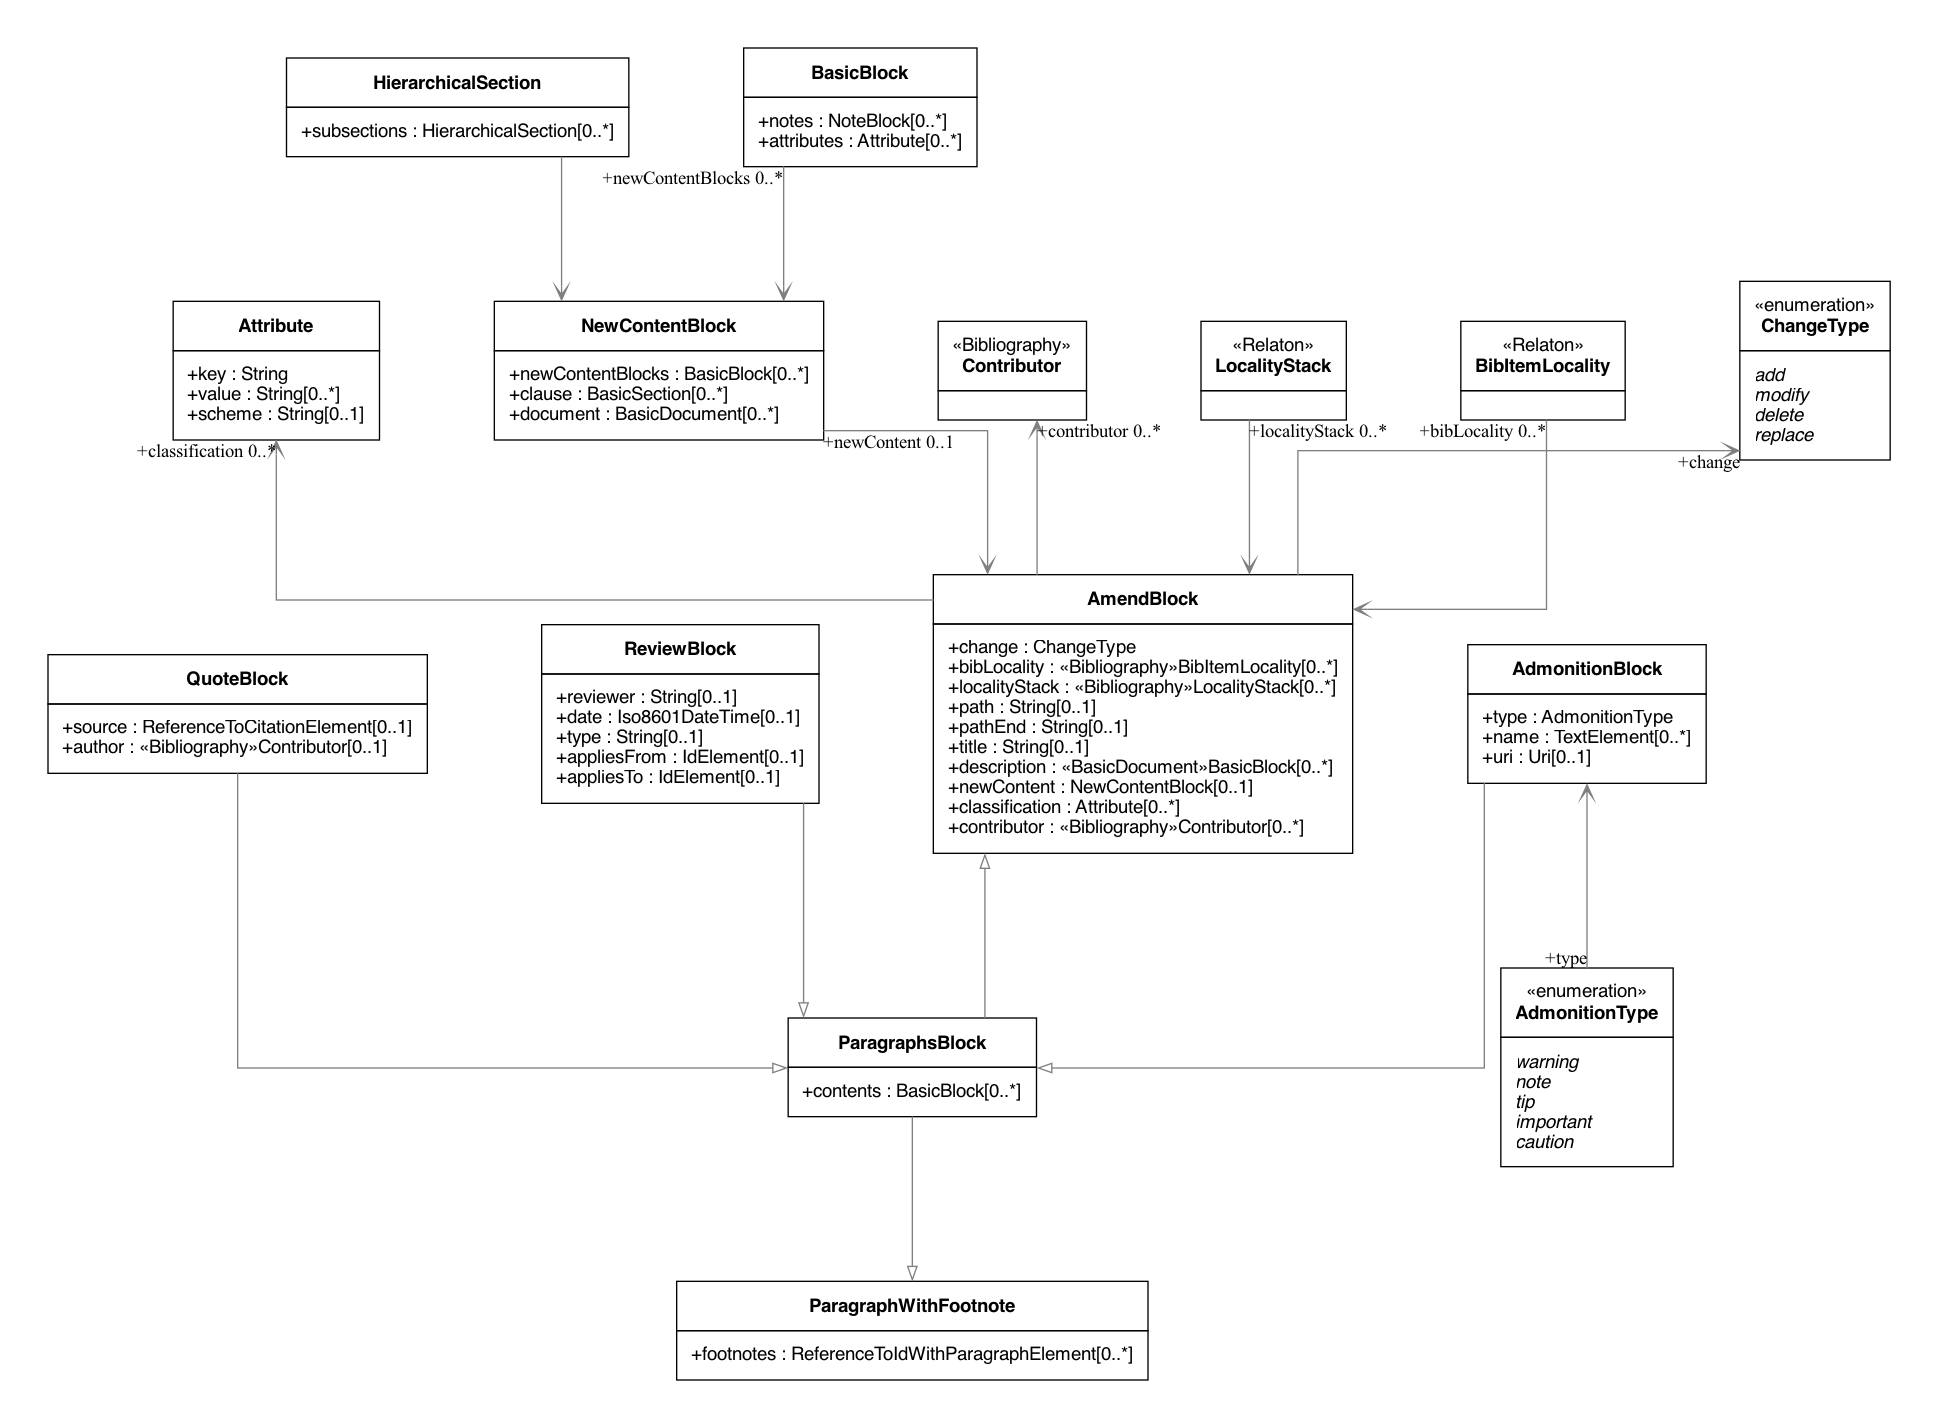
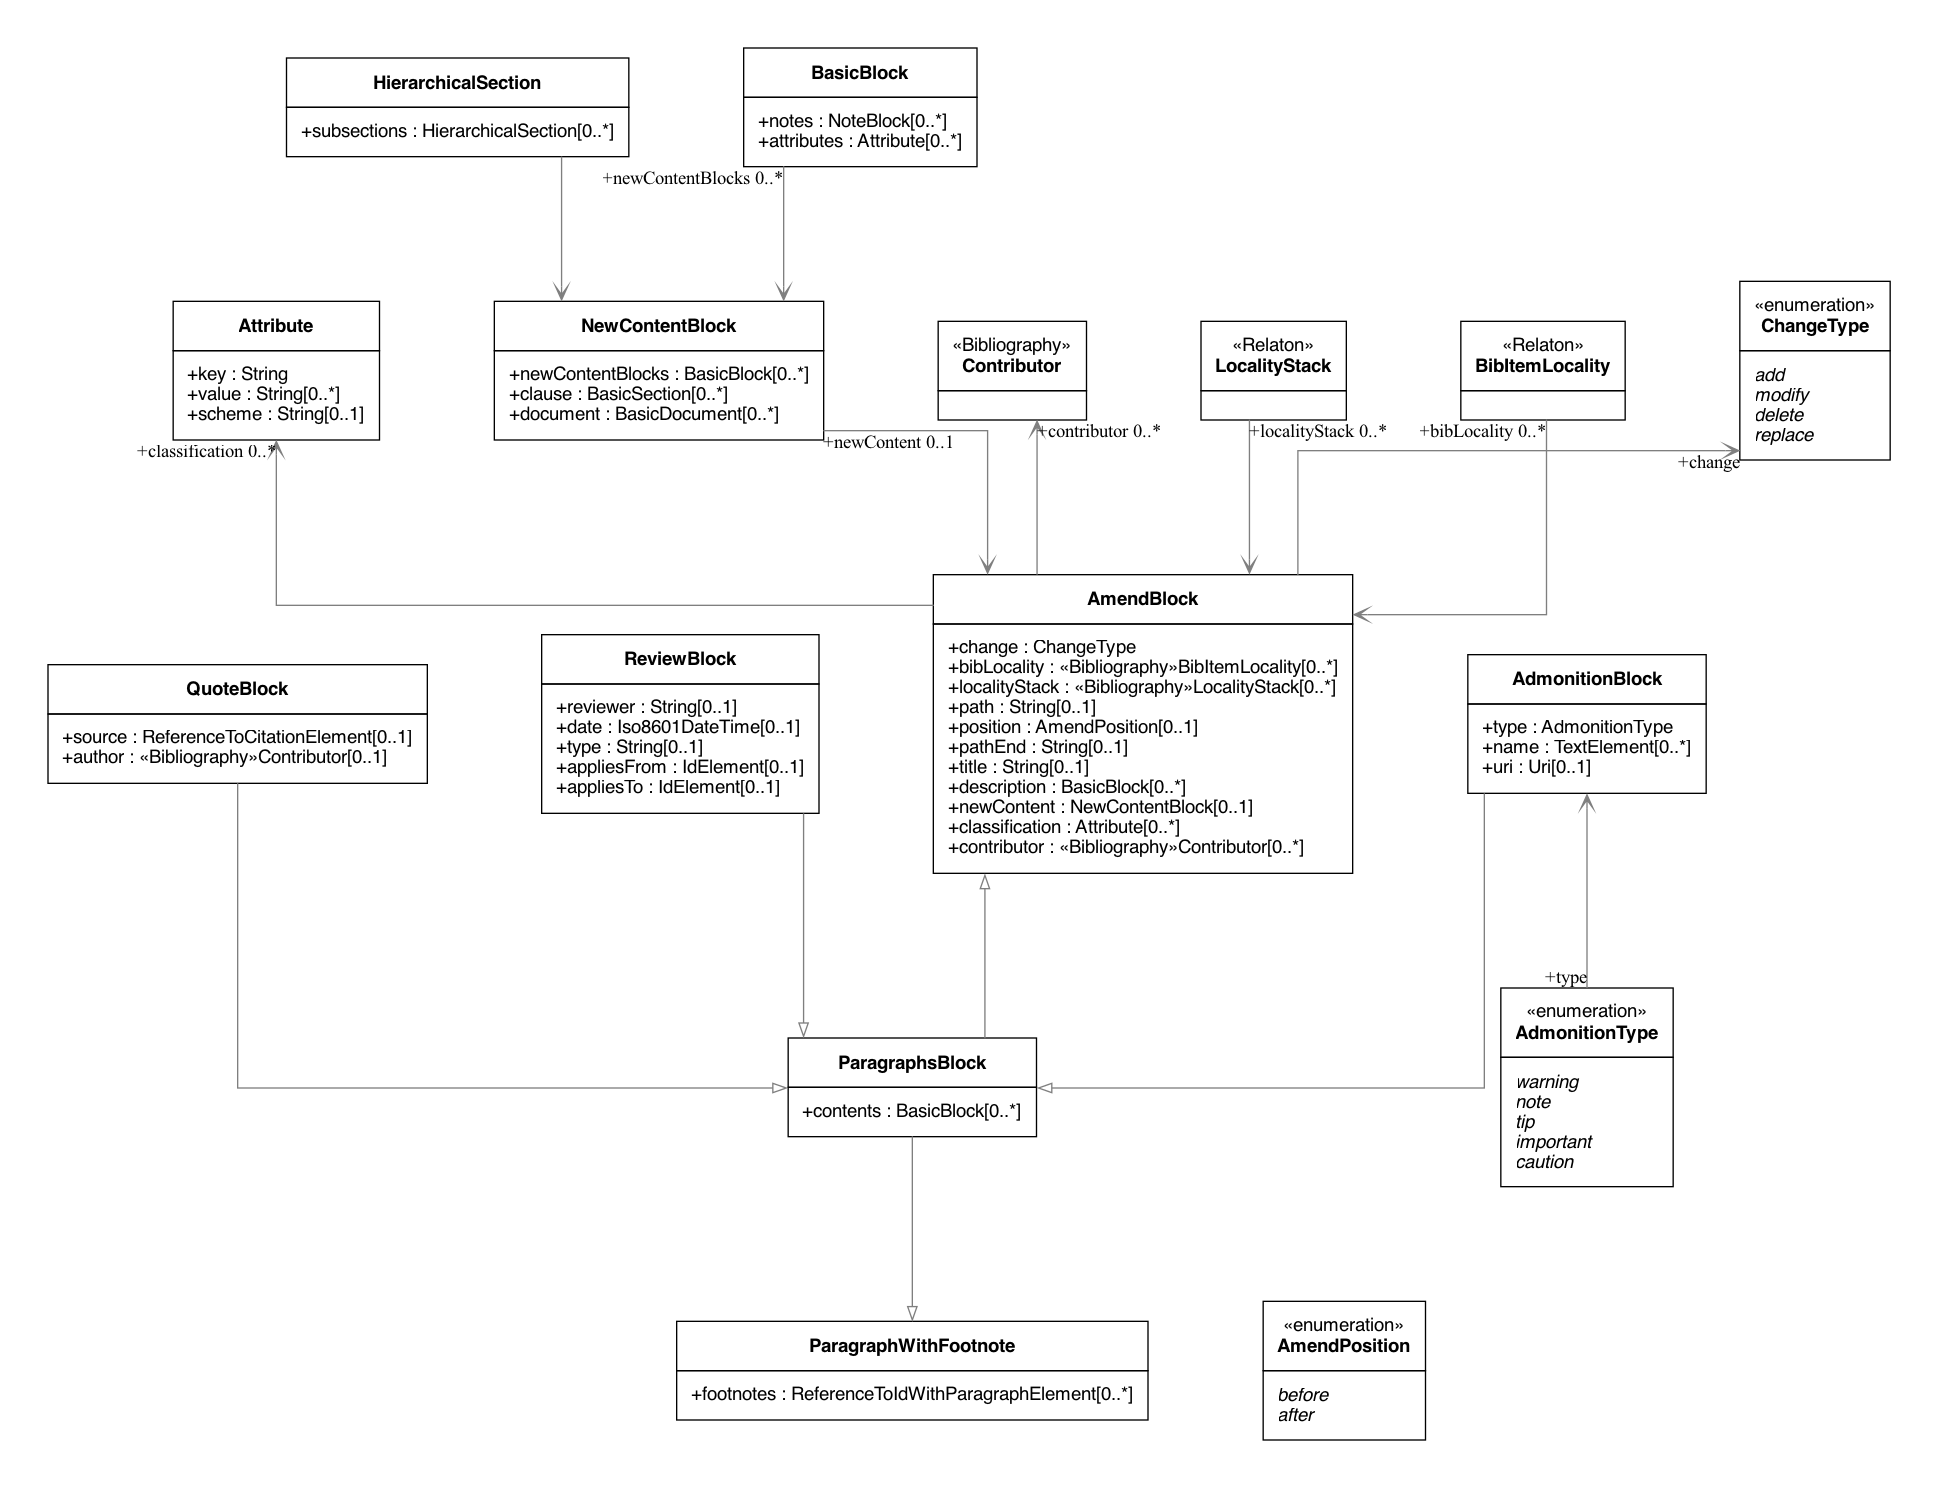
Complete the ontology graph and inline register coverage
The Blocks plate now states the full inheritance the specification
asserts: every block family root (NoteBlock, ParagraphBlock,
ParagraphsBlock, List, TableBlock, Figure/Sourcecode/Formula/Literal/
Example, AmendBlock) declares BasicBlock as parent; MultiParagraphs
gains the BasicBlock root edge. AmendBlock gains the position
attribute (before/after, AmendPosition enum) that the grammar carried
all along, and drops the bogus <<BasicDocument>> stereotype on its
description. The attribute register is now attachable at the inline
level in the grammar too (reg-attribute joined the
PureTextElement/NestedTextElement/TextElement alternations), matching
the model and specification claim of any-construct attachment; the
fixtures exercise an inline register entry and amend/@position. The
YAML validator resolves attributes through all declared parents
(owner- and member-side inheritance), and standalone inline register
entries use the bare {key, value} form.

diff --git a/tools/validate_yaml.rb b/tools/validate_yaml.rb
@@ -25,12 +25,16 @@ def body_of(type)
   File.read(defined_types[type]) if defined_types[type]
 end
 
-# parent = owner, child = member, for owner_type inheritance associations
-def parent_of
-  @parent_of ||= Dir[File.join(VIEWS_DIR, "*.lml")].each_with_object({}) do |v, acc|
-    File.read(v).scan(/association \{\s*(?:.*?)\s*owner (\w+)\s*member (\w+)\s*owner_type inheritance/m).each do |parent, child|
-        acc[child] ||= parent
-      end
+# parents of a type: owner (owner_type inheritance) or member (member_type inheritance)
+def parents_of
+  @parents_of ||= Dir[File.join(VIEWS_DIR, "*.lml")].each_with_object(Hash.new { |h, k| h[k] = [] }) do |v, acc|
+    body = File.read(v)
+    body.scan(/association \{\s*(?:.*?)\s*owner (\w+)\s*member (\w+)\s*owner_type inheritance/m).each do |parent, child|
+      acc[child] << parent unless acc[child].include?(parent)
+    end
+    body.scan(/association \{\s*(?:.*?)\s*owner (\w+)\s*member (\w+)\s*member_type inheritance/m).each do |child, parent|
+      acc[child] << parent unless acc[child].include?(parent)
+    end
   end
 end
 
@@ -38,7 +42,7 @@ def attributes_of(type)
   @attributes_of ||= {}
   @attributes_of[type] ||= begin
     own = body_of(type).to_s.scan(/^\s*[+#-]([a-z_]\w*)\s*:\s*([^\[{\n]+?)(?:\[[^\]]*\])?\s*\{/)
-    inherited = parent_of[type] ? attributes_of(parent_of[type]) : []
+    inherited = parents_of[type].flat_map { |par| attributes_of(par) }
     (own + inherited)
   end
 end
